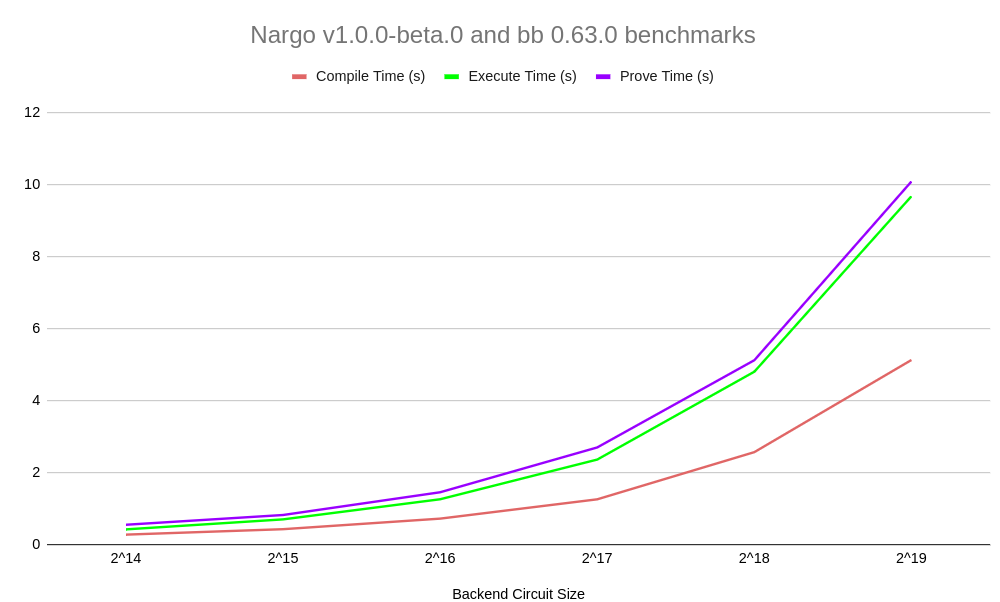
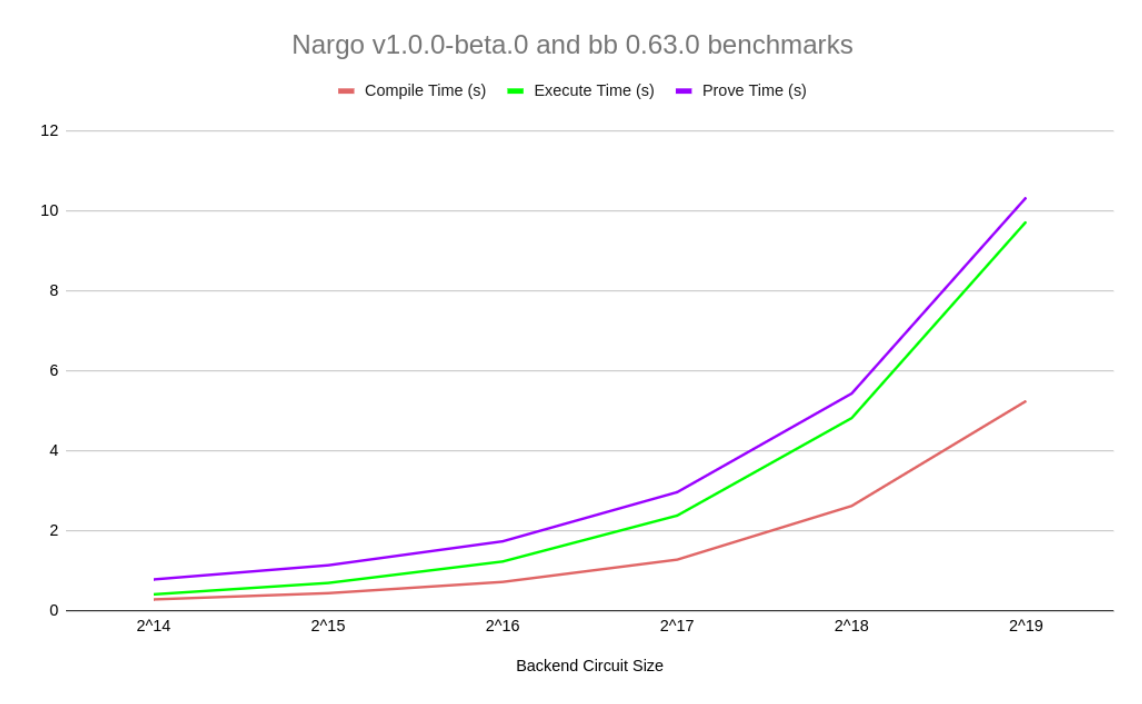
More accurate benchmarks from a Thinkpad P16 Gen2 (#6)
* updated to work with v1.0.0-beta.0

* added benchmarks from thinkpad p16 gen 2

* added chart for thinkpad p16 gen2

* re-ran benchmarks on thinkpad p16 gen2

* updated chart for thinkpad p16 gen2

diff --git a/README.md b/README.md
@@ -39,29 +39,29 @@ Aborted (core dumped)
 
 | Backend Circuit Size | Compile Time (s) | Execute Time (s) |        Prove Time (s)       |
 |:--------------------:|:----------------:|:----------------:|:---------------------------:|
-| 2^2                  |            0.162 |            0.148 |                     0.143   |
-| 2^3                  |            0.146 |            0.146 |                     0.143   |
-| 2^4                  |            0.149 |            0.151 |                     0.145   |
-| 2^5                  |            0.146 |            0.146 |                     0.147   |
-| 2^6                  |            0.154 |            0.146 |                     0.148   |
-| 2^7                  |            0.156 |            0.150 |                     0.154   |
-| 2^8                  |            0.143 |            0.154 |                     0.160   |
-| 2^9                  |            0.144 |            0.161 |                     0.166   |
-| 2^10                 |            0.156 |            0.157 |                     0.179   |
-| 2^11                 |            0.165 |            0.181 |                     0.205   |
-| 2^12                 |            0.172 |            0.203 |                     0.248   |
-| 2^13                 |            0.207 |            0.269 |                     0.364   |
-| 2^14                 |            0.269 |            0.415 |                     0.541   |
-| 2^15                 |            0.421 |            0.693 |                     0.812   |
-| 2^16                 |            0.714 |            1.252 |                     1.444   |
-| 2^17                 |            1.251 |            2.355 |                     2.690   |
-| 2^18                 |            2.562 |            4.797 |                     5.114   |
-| 2^19                 |            5.122 |            9.672 |                     10.080  |
-| 2^20                 |           10.416 |           19.475 |                     19.853  |
-| 2^21                 |           20.047 |           37.673 |                     302.956 |
-| 2^22                 |           42.178 |           77.534 |                     671.056 |
-| 2^23                 |            332.5 |          153.608 |                           * |
-| 2^24                 |          777.882 |          309.938 |                           * |
+| 2^2                  |          0.170   |          0.158   |                      0.428  |
+| 2^3                  |          0.151   |          0.149   |                      0.430  |
+| 2^4                  |          0.145   |          0.152   |                      0.430  |
+| 2^5                  |          0.144   |          0.151   |                      0.443  |
+| 2^6                  |          0.146   |          0.145   |                      0.440  |
+| 2^7                  |          0.148   |          0.154   |                      0.443  |
+| 2^8                  |          0.156   |          0.150   |                      0.441  |
+| 2^9                  |          0.160   |          0.153   |                      0.459  |
+| 2^10                 |          0.156   |          0.175   |                      0.477  |
+| 2^11                 |          0.159   |          0.185   |                      0.486  |
+| 2^12                 |          0.175   |          0.212   |                      0.524  |
+| 2^13                 |          0.212   |          0.278   |                      0.607  |
+| 2^14                 |          0.272   |          0.402   |                      0.773  |
+| 2^15                 |          0.428   |          0.687   |                      1.127  |
+| 2^16                 |          0.709   |          1.223   |                      1.726  |
+| 2^17                 |          1.268   |          2.374   |                      2.956  |
+| 2^18                 |          2.612   |          4.813   |                      5.426  |
+| 2^19                 |          5.238   |          9.729   |                      10.331 |
+| 2^20                 |          10.468  |          19.530  |                      20.255 |
+| 2^21                 |          20.230  |          38.190  |                      39.531 |
+| 2^22                 |          42.490  |          78.707  |                      77.385 |
+| 2^23                 |          81.991  |          154.556 |                           * |
+| 2^24                 |          166.043 |          366.101 |                           * |
 
 Note that for the entries marked with \*, the `bb` program emitted the
 following error, indicating that the device likely ran out of memory:
